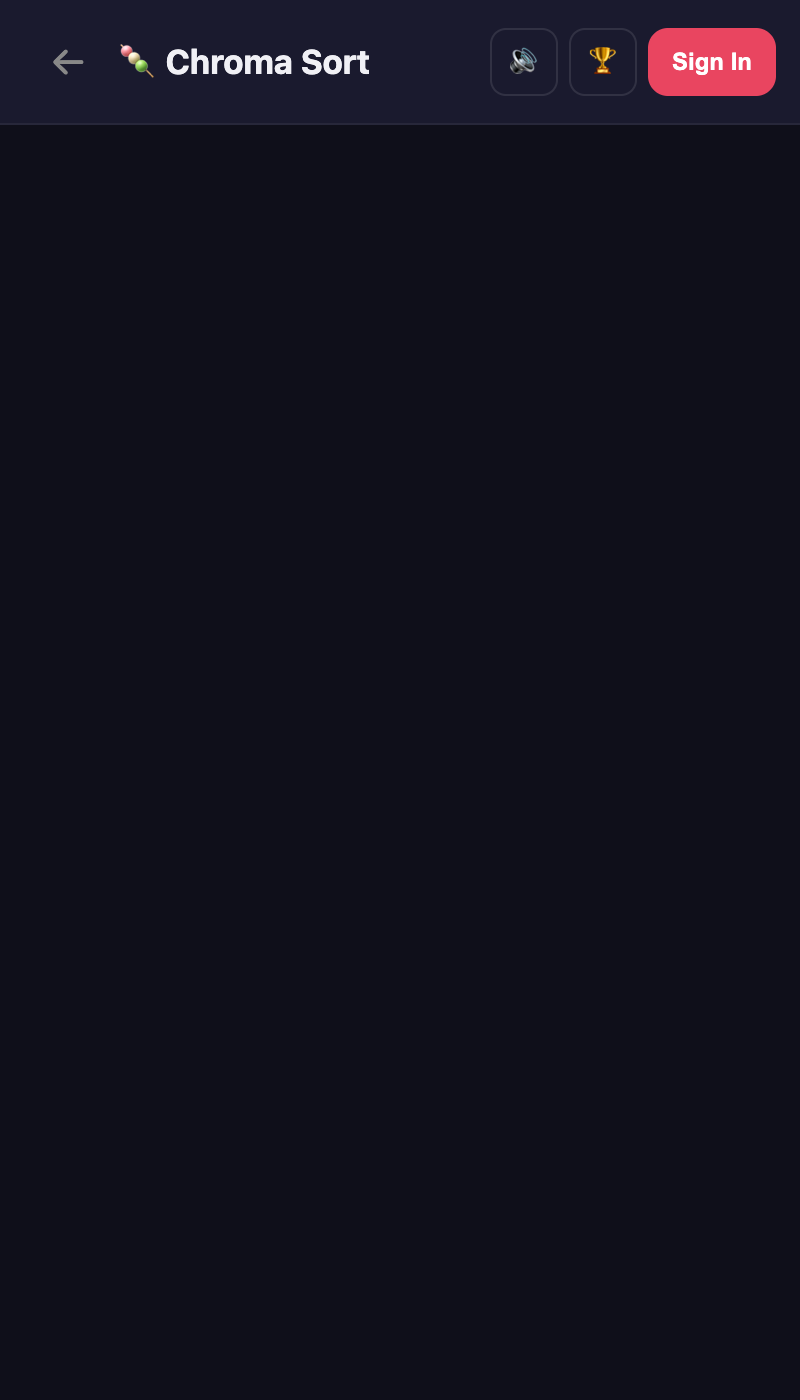
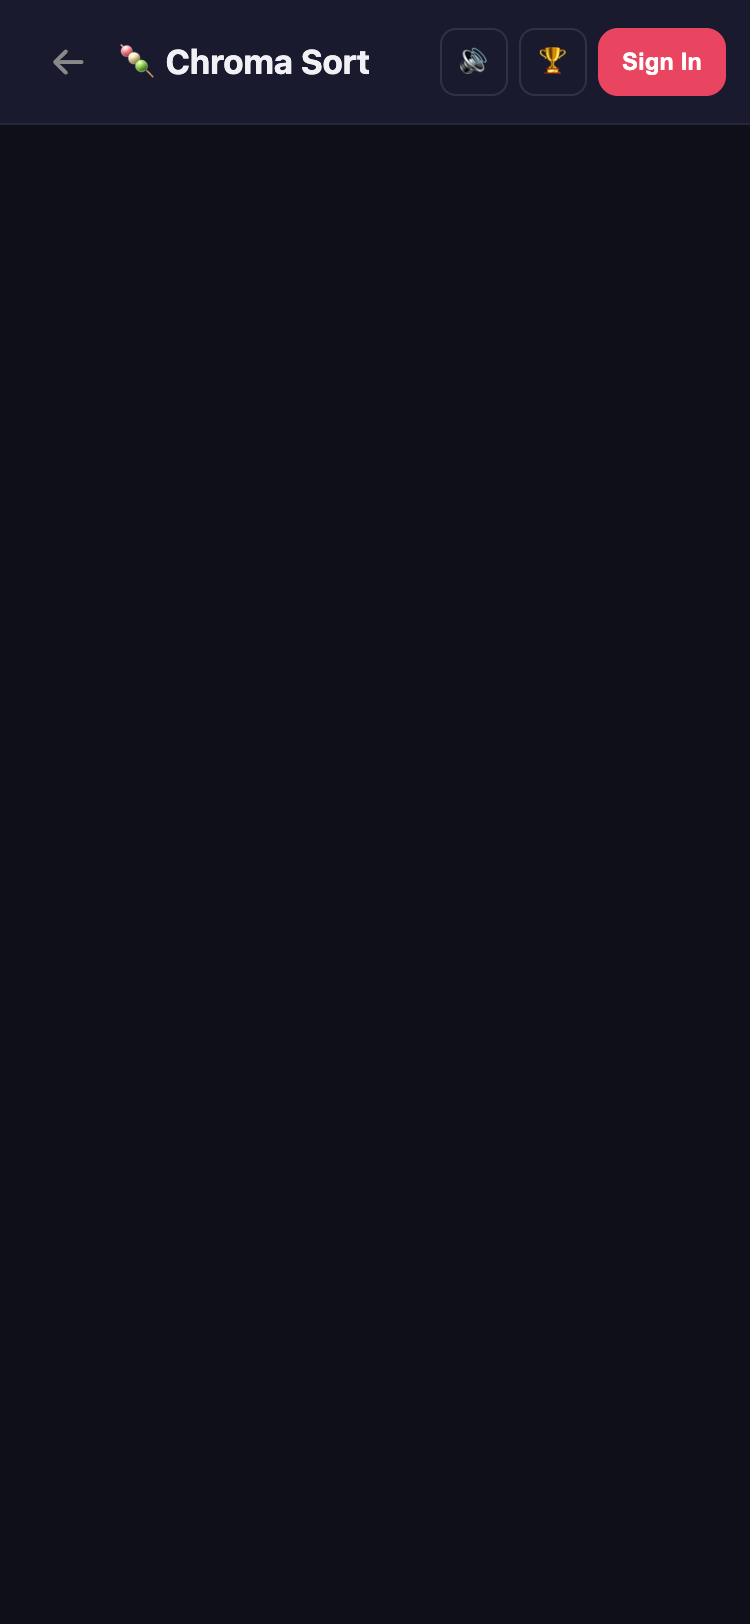
fix(GameLanding): Bigger carousel, crop SVG whitespace, tighter spacing
- Carousel max-width 200px → 280px (mobile), 340px (desktop)
- Aspect ratio 9:16 → 4:5 (less tall, fills width better)
- Crop SVG viewBoxes to remove empty bottom space:
  animated: 560→340, gameplay: 560→380, home: 560→520
- First fold gap 20px→16px, padding 20px→12px
- CACHE_VERSION 97 → 98

diff --git a/apps/web-astro/public/sw.js b/apps/web-astro/public/sw.js
@@ -58,7 +58,7 @@ self.addEventListener('notificationclick', (event) => {
 });
 
 // Cache version - increment this on each deployment
-const CACHE_VERSION = 97;
+const CACHE_VERSION = 98;
 const CACHE_NAME = `weekly-arcade-v${CACHE_VERSION}`;
 
 // Core assets to pre-cache
